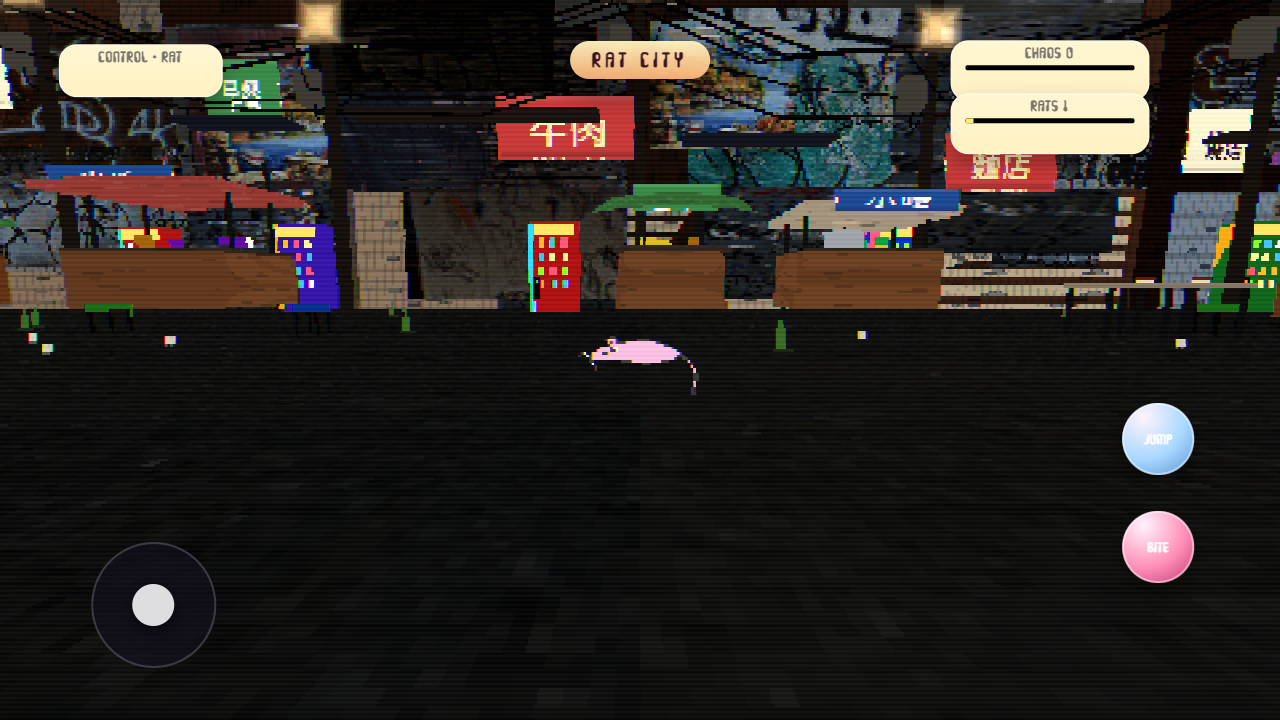
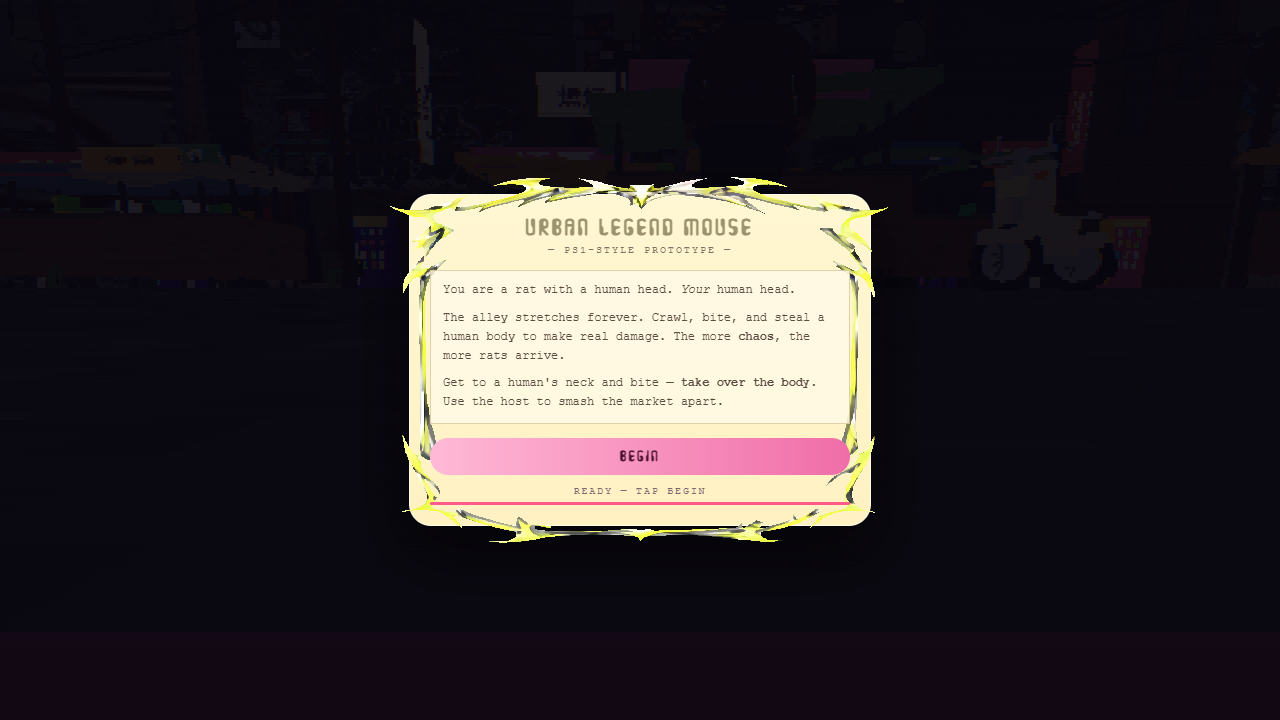
AA

diff --git a/index.html b/index.html
@@ -1191,7 +1191,16 @@ function basicBox(w,h,d,texOrCol,opts={}){
 // ===== Prop builders — every static prop uses MeshBasicMaterial =====
 // Active-chunk tracker for cleanup.
 let _activeChunk=null;
+function freezeStaticObject(root){
+  root.updateMatrixWorld(true);
+  root.traverse(o=>{
+    o.matrixAutoUpdate=false;
+    if(o.updateMatrix) o.updateMatrix();
+  });
+  return root;
+}
 function addChunkObject(root){
+  freezeStaticObject(root);
   scene.add(root);
   if(_activeChunk)_activeChunk.meshes.push(root);
   return root;
@@ -1374,6 +1383,177 @@ function buildCar(x,z,rotY=0,colour='#2a2c30'){
     t.position.set(-2.22,0.95,pz);root.add(t);
   }
   registerProp(root,2.2,3.4);
+}
+
+function buildDetailedScooter(x,z,rotY=0){
+  const root=new THREE.Group();root.position.set(x,0,z);root.rotation.y=rotY;
+  const cream=new THREE.MeshBasicMaterial({color:'#ece4cf'});
+  const blk=new THREE.MeshBasicMaterial({color:'#121212'});
+  const chrome=new THREE.MeshBasicMaterial({color:'#d5d7d8'});
+  const brown=new THREE.MeshBasicMaterial({color:'#73533b'});
+  const softGray=new THREE.MeshBasicMaterial({color:'#8b8f92'});
+  for(const px of [-0.74,0.72]){
+    const tyre=new THREE.Mesh(new THREE.TorusGeometry(0.30,0.06,6,12),blk);
+    tyre.rotation.y=Math.PI/2;tyre.position.set(px,0.30,0);root.add(tyre);
+    const rim=new THREE.Mesh(new THREE.CylinderGeometry(0.22,0.22,0.05,12),chrome);
+    rim.rotation.z=Math.PI/2;rim.position.set(px,0.30,0);root.add(rim);
+    for(let i=0;i<5;i++){
+      const spoke=new THREE.Mesh(new THREE.BoxGeometry(0.02,0.42,0.02),softGray);
+      spoke.position.set(px,0.30,0);spoke.rotation.z=(Math.PI/5)*i;root.add(spoke);
+    }
+  }
+  const floorBoard=new THREE.Mesh(new THREE.BoxGeometry(0.82,0.12,0.26),cream);
+  floorBoard.position.set(-0.04,0.44,0);root.add(floorBoard);
+  const sideCowling=new THREE.Mesh(new THREE.BoxGeometry(0.74,0.36,0.22),cream);
+  sideCowling.position.set(-0.08,0.60,0);sideCowling.rotation.z=0.06;root.add(sideCowling);
+  const legShield=new THREE.Mesh(new THREE.BoxGeometry(0.26,0.88,0.44),cream);
+  legShield.position.set(0.46,0.82,0);legShield.rotation.z=-0.08;root.add(legShield);
+  const headColumn=new THREE.Mesh(new THREE.BoxGeometry(0.09,0.72,0.09),chrome);
+  headColumn.position.set(0.58,1.05,0);headColumn.rotation.z=-0.08;root.add(headColumn);
+  const handleBar=new THREE.Mesh(new THREE.BoxGeometry(0.05,0.05,0.92),chrome);
+  handleBar.position.set(0.62,1.34,0);root.add(handleBar);
+  for(const side of [-1,1]){
+    const grip=new THREE.Mesh(new THREE.BoxGeometry(0.16,0.05,0.06),blk);
+    grip.position.set(0.62,1.34,side*0.40);root.add(grip);
+    const mirrorStem=new THREE.Mesh(new THREE.BoxGeometry(0.02,0.24,0.02),chrome);
+    mirrorStem.position.set(0.58,1.48,side*0.24);mirrorStem.rotation.z=side*0.18;root.add(mirrorStem);
+    const mirror=new THREE.Mesh(new THREE.CircleGeometry(0.08,8),softGray);
+    mirror.position.set(0.55,1.58,side*0.28);mirror.rotation.y=side>0?0:Math.PI;root.add(mirror);
+    const indicator=new THREE.Mesh(new THREE.BoxGeometry(0.05,0.05,0.10),new THREE.MeshBasicMaterial({color:'#f6a13e'}));
+    indicator.position.set(0.68,1.10,side*0.24);root.add(indicator);
+  }
+  const headlight=new THREE.Mesh(new THREE.BoxGeometry(0.10,0.18,0.24),new THREE.MeshBasicMaterial({color:'#fff6d0'}));
+  headlight.position.set(0.70,1.02,0);root.add(headlight);
+  const seat=new THREE.Mesh(new THREE.BoxGeometry(0.56,0.12,0.30),brown);
+  seat.position.set(-0.22,0.86,0);root.add(seat);
+  const rearRack=new THREE.Mesh(new THREE.BoxGeometry(0.26,0.05,0.34),chrome);
+  rearRack.position.set(-0.66,0.82,0);root.add(rearRack);
+  const mudGuardFront=new THREE.Mesh(new THREE.BoxGeometry(0.14,0.14,0.52),cream);
+  mudGuardFront.position.set(0.72,0.54,0);root.add(mudGuardFront);
+  const mudGuardRear=new THREE.Mesh(new THREE.BoxGeometry(0.16,0.16,0.52),cream);
+  mudGuardRear.position.set(-0.72,0.54,0);root.add(mudGuardRear);
+  const exhaust=new THREE.Mesh(new THREE.CylinderGeometry(0.05,0.05,0.82,8),chrome);
+  exhaust.rotation.z=Math.PI/2;exhaust.position.set(-0.10,0.30,-0.20);root.add(exhaust);
+  registerProp(root,0.92,2.4);
+}
+
+function buildSedan(x,z,rotY=0,colour='#e5e5e1'){
+  const root=new THREE.Group();root.position.set(x,0,z);root.rotation.y=rotY;
+  const bodyMat=new THREE.MeshBasicMaterial({color:colour});
+  const trimMat=new THREE.MeshBasicMaterial({color:'#8a8b8d'});
+  const glassMat=new THREE.MeshBasicMaterial({color:'#181d23'});
+  const tyreMat=new THREE.MeshBasicMaterial({color:'#111'});
+  const chrome=new THREE.MeshBasicMaterial({color:'#d7d7d2'});
+  const lower=new THREE.Mesh(new THREE.BoxGeometry(4.75,0.72,2.02),bodyMat);
+  lower.position.y=0.56;root.add(lower);
+  const midBelt=new THREE.Mesh(new THREE.BoxGeometry(4.66,0.24,2.06),trimMat);
+  midBelt.position.y=0.28;root.add(midBelt);
+  const cabin=new THREE.Mesh(new THREE.BoxGeometry(2.34,0.86,1.84),bodyMat);
+  cabin.position.set(0.08,1.24,0);root.add(cabin);
+  const windshield=new THREE.Mesh(new THREE.BoxGeometry(0.82,0.62,1.76),glassMat);
+  windshield.position.set(1.00,1.30,0);windshield.rotation.z=-0.22;root.add(windshield);
+  const rearGlass=new THREE.Mesh(new THREE.BoxGeometry(0.86,0.54,1.74),glassMat);
+  rearGlass.position.set(-0.92,1.30,0);rearGlass.rotation.z=0.18;root.add(rearGlass);
+  const roof=new THREE.Mesh(new THREE.BoxGeometry(1.76,0.10,1.68),bodyMat);
+  roof.position.set(0.00,1.74,0);root.add(roof);
+  const bonnet=new THREE.Mesh(new THREE.BoxGeometry(1.32,0.18,1.88),bodyMat);
+  bonnet.position.set(1.68,0.96,0);bonnet.rotation.z=-0.04;root.add(bonnet);
+  const boot=new THREE.Mesh(new THREE.BoxGeometry(1.10,0.22,1.86),bodyMat);
+  boot.position.set(-1.74,0.98,0);boot.rotation.z=0.03;root.add(boot);
+  for(const side of [-1,1]){
+    for(const px of [-1.35,1.45]){
+      const w=new THREE.Mesh(new THREE.CylinderGeometry(0.38,0.38,0.26,12),tyreMat);
+      w.rotation.x=Math.PI/2;w.position.set(px,0.38,side*0.93);root.add(w);
+      const hub=new THREE.Mesh(new THREE.CylinderGeometry(0.18,0.18,0.28,10),chrome);
+      hub.rotation.x=Math.PI/2;hub.position.set(px,0.38,side*0.93);root.add(hub);
+    }
+    const sideLine=new THREE.Mesh(new THREE.BoxGeometry(4.52,0.06,0.05),trimMat);
+    sideLine.position.set(0,0.92,side*1.02);root.add(sideLine);
+    const mirror=new THREE.Mesh(new THREE.BoxGeometry(0.12,0.08,0.14),chrome);
+    mirror.position.set(0.92,1.18,side*1.06);root.add(mirror);
+    const doorHandleA=new THREE.Mesh(new THREE.BoxGeometry(0.12,0.04,0.04),chrome);
+    doorHandleA.position.set(0.40,1.02,side*1.04);root.add(doorHandleA);
+    const doorHandleB=new THREE.Mesh(new THREE.BoxGeometry(0.12,0.04,0.04),chrome);
+    doorHandleB.position.set(-0.78,1.02,side*1.04);root.add(doorHandleB);
+  }
+  const grill=new THREE.Mesh(new THREE.BoxGeometry(0.16,0.30,1.18),trimMat);
+  grill.position.set(2.38,0.92,0);root.add(grill);
+  for(const pz of [-0.56,0.56]){
+    const h=new THREE.Mesh(new THREE.BoxGeometry(0.14,0.18,0.44),new THREE.MeshBasicMaterial({color:'#fff7d2'}));
+    h.position.set(2.42,1.00,pz);root.add(h);
+    const t=new THREE.Mesh(new THREE.BoxGeometry(0.08,0.16,0.38),new THREE.MeshBasicMaterial({color:'#c52828'}));
+    t.position.set(-2.40,0.96,pz);root.add(t);
+  }
+  const bumperFront=new THREE.Mesh(new THREE.BoxGeometry(0.12,0.18,1.86),trimMat);
+  bumperFront.position.set(2.46,0.42,0);root.add(bumperFront);
+  const bumperRear=new THREE.Mesh(new THREE.BoxGeometry(0.10,0.18,1.82),trimMat);
+  bumperRear.position.set(-2.44,0.42,0);root.add(bumperRear);
+  const numberPlate=new THREE.Mesh(new THREE.BoxGeometry(0.02,0.16,0.48),new THREE.MeshBasicMaterial({color:'#f1e7c7'}));
+  numberPlate.position.set(2.48,0.64,0);root.add(numberPlate);
+  registerProp(root,2.35,3.6);
+}
+
+function buildMiniTruck(x,z,rotY=0,colour='#1f63d8'){
+  const root=new THREE.Group();root.position.set(x,0,z);root.rotation.y=rotY;
+  const bodyMat=new THREE.MeshBasicMaterial({color:colour});
+  const cargoMat=new THREE.MeshBasicMaterial({color:'#d8dbde'});
+  const bedMat=new THREE.MeshBasicMaterial({color:'#202226'});
+  const glassMat=new THREE.MeshBasicMaterial({color:'#11161d'});
+  const tyreMat=new THREE.MeshBasicMaterial({color:'#0f0f10'});
+  const chrome=new THREE.MeshBasicMaterial({color:'#d0d5d8'});
+  const cabBase=new THREE.Mesh(new THREE.BoxGeometry(1.55,1.12,1.52),bodyMat);
+  cabBase.position.set(1.28,0.84,0);root.add(cabBase);
+  const cabRoof=new THREE.Mesh(new THREE.BoxGeometry(1.36,0.18,1.46),bodyMat);
+  cabRoof.position.set(1.24,1.44,0);root.add(cabRoof);
+  const windshield=new THREE.Mesh(new THREE.BoxGeometry(0.52,0.66,1.32),glassMat);
+  windshield.position.set(1.92,1.08,0);windshield.rotation.z=-0.14;root.add(windshield);
+  const sideWindowL=new THREE.Mesh(new THREE.BoxGeometry(0.78,0.56,0.04),glassMat);
+  sideWindowL.position.set(1.24,1.08,0.78);root.add(sideWindowL);
+  const sideWindowR=sideWindowL.clone();sideWindowR.position.z=-0.78;root.add(sideWindowR);
+  const bonnet=new THREE.Mesh(new THREE.BoxGeometry(0.42,0.54,1.50),bodyMat);
+  bonnet.position.set(2.10,0.72,0);root.add(bonnet);
+  const bedFloor=new THREE.Mesh(new THREE.BoxGeometry(2.26,0.16,1.74),bedMat);
+  bedFloor.position.set(-0.36,0.78,0);root.add(bedFloor);
+  const sidePanelL=new THREE.Mesh(new THREE.BoxGeometry(2.24,0.88,0.10),bodyMat);
+  sidePanelL.position.set(-0.36,1.24,0.82);root.add(sidePanelL);
+  const sidePanelR=sidePanelL.clone();sidePanelR.position.z=-0.82;root.add(sidePanelR);
+  const tailGate=new THREE.Mesh(new THREE.BoxGeometry(0.10,0.82,1.64),bodyMat);
+  tailGate.position.set(-1.44,1.18,0);root.add(tailGate);
+  const canopyFrame=new THREE.Mesh(new THREE.BoxGeometry(2.30,0.08,1.82),cargoMat);
+  canopyFrame.position.set(-0.32,2.06,0);root.add(canopyFrame);
+  for(const [px,pz] of [[0.70,0.82],[0.70,-0.82],[-1.18,0.82],[-1.18,-0.82]]){
+    const post=new THREE.Mesh(new THREE.BoxGeometry(0.08,1.18,0.08),cargoMat);
+    post.position.set(px,1.48,pz);root.add(post);
+  }
+  const shutterL=new THREE.Mesh(new THREE.BoxGeometry(1.88,1.06,0.04),cargoMat);
+  shutterL.position.set(-0.32,1.44,0.88);root.add(shutterL);
+  const shutterR=shutterL.clone();shutterR.position.z=-0.88;root.add(shutterR);
+  const shutterBack=new THREE.Mesh(new THREE.BoxGeometry(0.04,1.06,1.44),cargoMat);
+  shutterBack.position.set(-1.46,1.44,0);root.add(shutterBack);
+  for(let i=0;i<4;i++){
+    const rail=new THREE.Mesh(new THREE.BoxGeometry(1.84,0.03,0.03),new THREE.MeshBasicMaterial({color:'#b8bcc0'}));
+    rail.position.set(-0.32,1.00+i*0.22,0.89);root.add(rail);
+    const railR=rail.clone();railR.position.z=-0.89;root.add(railR);
+  }
+  for(const side of [-1,1]){
+    const mirrorArm=new THREE.Mesh(new THREE.BoxGeometry(0.20,0.03,0.03),chrome);
+    mirrorArm.position.set(1.92,1.14,side*0.92);root.add(mirrorArm);
+    const mirror=new THREE.Mesh(new THREE.BoxGeometry(0.06,0.16,0.14),chrome);
+    mirror.position.set(1.98,1.14,side*1.02);root.add(mirror);
+  }
+  for(const [px,pz] of [[1.52,0.78],[1.52,-0.78],[-0.72,0.78],[-0.72,-0.78]]){
+    const tyre=new THREE.Mesh(new THREE.CylinderGeometry(0.34,0.34,0.28,12),tyreMat);
+    tyre.rotation.x=Math.PI/2;tyre.position.set(px,0.34,pz);root.add(tyre);
+    const rim=new THREE.Mesh(new THREE.CylinderGeometry(0.18,0.18,0.30,10),chrome);
+    rim.rotation.x=Math.PI/2;rim.position.set(px,0.34,pz);root.add(rim);
+  }
+  const headLampA=new THREE.Mesh(new THREE.BoxGeometry(0.10,0.18,0.30),new THREE.MeshBasicMaterial({color:'#fff6d2'}));
+  headLampA.position.set(2.34,0.88,0.42);root.add(headLampA);
+  const headLampB=headLampA.clone();headLampB.position.z=-0.42;root.add(headLampB);
+  const tailLampA=new THREE.Mesh(new THREE.BoxGeometry(0.08,0.16,0.22),new THREE.MeshBasicMaterial({color:'#d34a3c'}));
+  tailLampA.position.set(-1.50,0.90,0.54);root.add(tailLampA);
+  const tailLampB=tailLampA.clone();tailLampB.position.z=-0.54;root.add(tailLampB);
+  registerProp(root,2.1,3.8);
 }
 
 function buildBin(x,z,colour='#2a3a44'){
@@ -1935,7 +2115,7 @@ function generateChunk(idx){
   floorTex.repeat.set(2,7);pixelate(floorTex);
   const floor=new THREE.Mesh(
     new THREE.PlaneGeometry(CHUNK_SIZE,46),
-    new THREE.MeshBasicMaterial({map:floorTex,color:'#8b8b86'})
+    new THREE.MeshBasicMaterial({map:floorTex,color:'#d2d2ce'})
   );
   floor.rotation.x=-Math.PI/2;
   floor.position.set(xBase+CHUNK_SIZE/2,0,0);
@@ -2143,11 +2323,17 @@ function generateChunk(idx){
   for(let i=0;i<8;i++){
     buildStool(xBase+rand(1,CHUNK_SIZE-1),rand(-4.3,4.3),pick(stoolColours));
   }
-  buildBin(xBase+rand(1.5,CHUNK_SIZE-1.5),rand(-3,3),pick(['#3a4540','#5c2c2c','#2a3a44']));
-  buildBin(xBase+rand(1.5,CHUNK_SIZE-1.5),rand(-3,3),pick(['#3a4540','#5c2c2c','#2a3a44']));
-  buildScooter(xBase+rand(2,CHUNK_SIZE-2),rand(-2.5,2.5),Math.random()*Math.PI*2);
-  if(Math.random()<0.5){
-    buildScooter(xBase+rand(2,CHUNK_SIZE-2),rand(-2.5,2.5),Math.random()*Math.PI*2);
+  buildBin(xBase+rand(1.5,CHUNK_SIZE-1.5),rand(-3.2,3.2),pick(['#3a4540','#5c2c2c','#2a3a44']));
+  buildBin(xBase+rand(1.5,CHUNK_SIZE-1.5),rand(-3.2,3.2),pick(['#3a4540','#5c2c2c','#2a3a44']));
+  buildDetailedScooter(xBase+rand(2.2,CHUNK_SIZE-2.2),rand(-4.2,4.2),Math.random()*Math.PI*2);
+  if(Math.random()<0.72){
+    buildDetailedScooter(xBase+rand(2.2,CHUNK_SIZE-2.2),rand(-5.2,5.2),Math.random()*Math.PI*2);
+  }
+  if(Math.random()<0.58){
+    buildSedan(xBase+rand(3.4,CHUNK_SIZE-3.4),rand(-6.8,6.8),Math.random()<0.5?0:Math.PI,pick(['#e5e5e1','#bfc5cc','#272c34','#6a7280']));
+  }
+  if(Math.random()<0.42){
+    buildMiniTruck(xBase+rand(3.6,CHUNK_SIZE-3.6),rand(-7.2,7.2),Math.random()<0.5?0:Math.PI,pick(['#1f63d8','#2f8a4f','#d8d9dc']));
   }
 
   // --- Sprite billboards — heavy crowd of distant pedestrians, plus